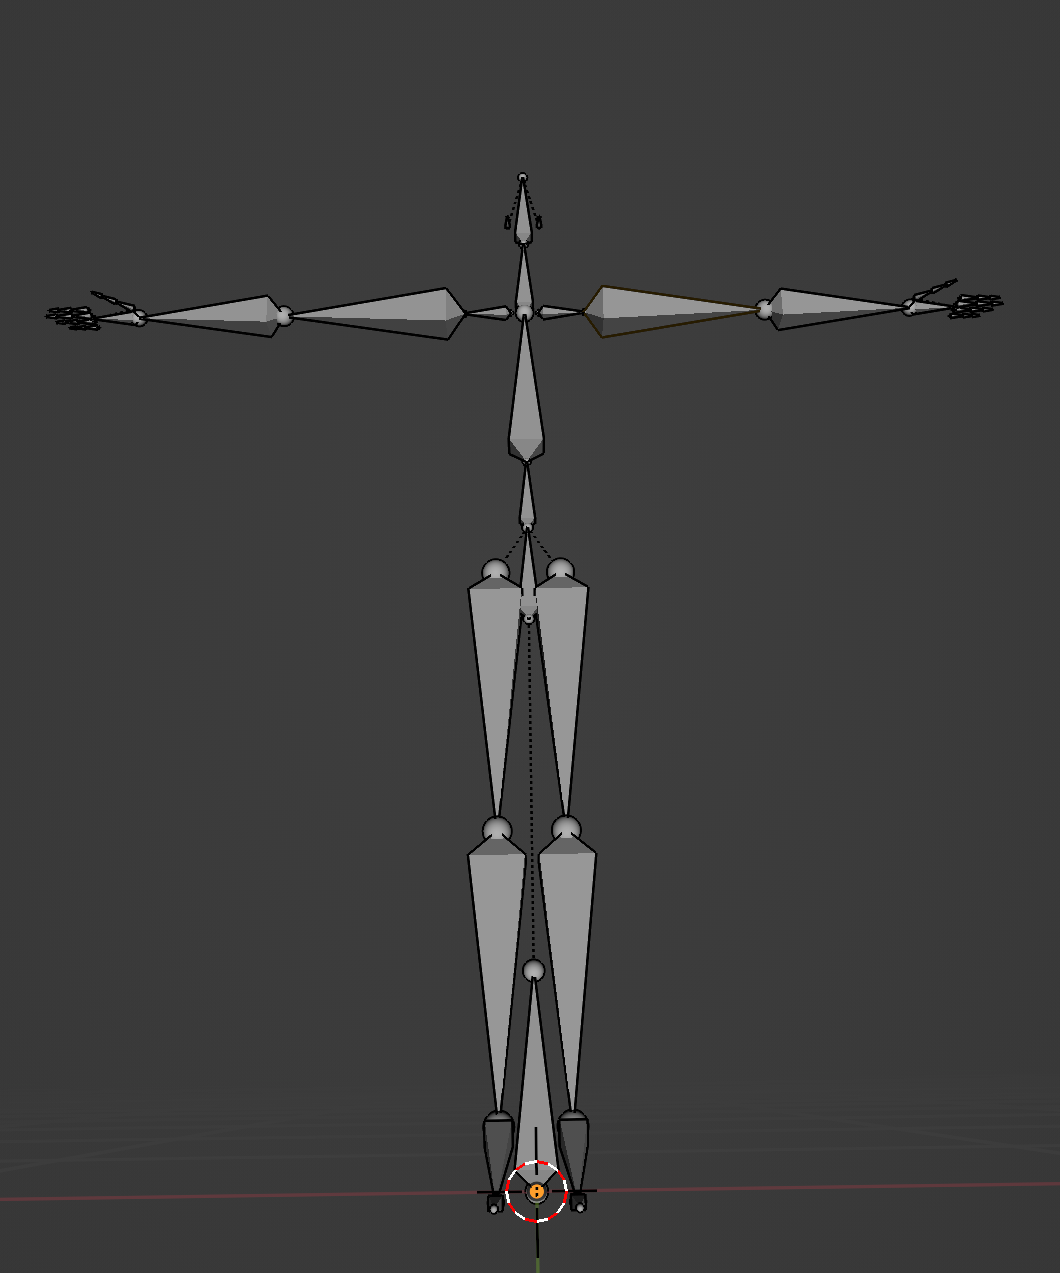
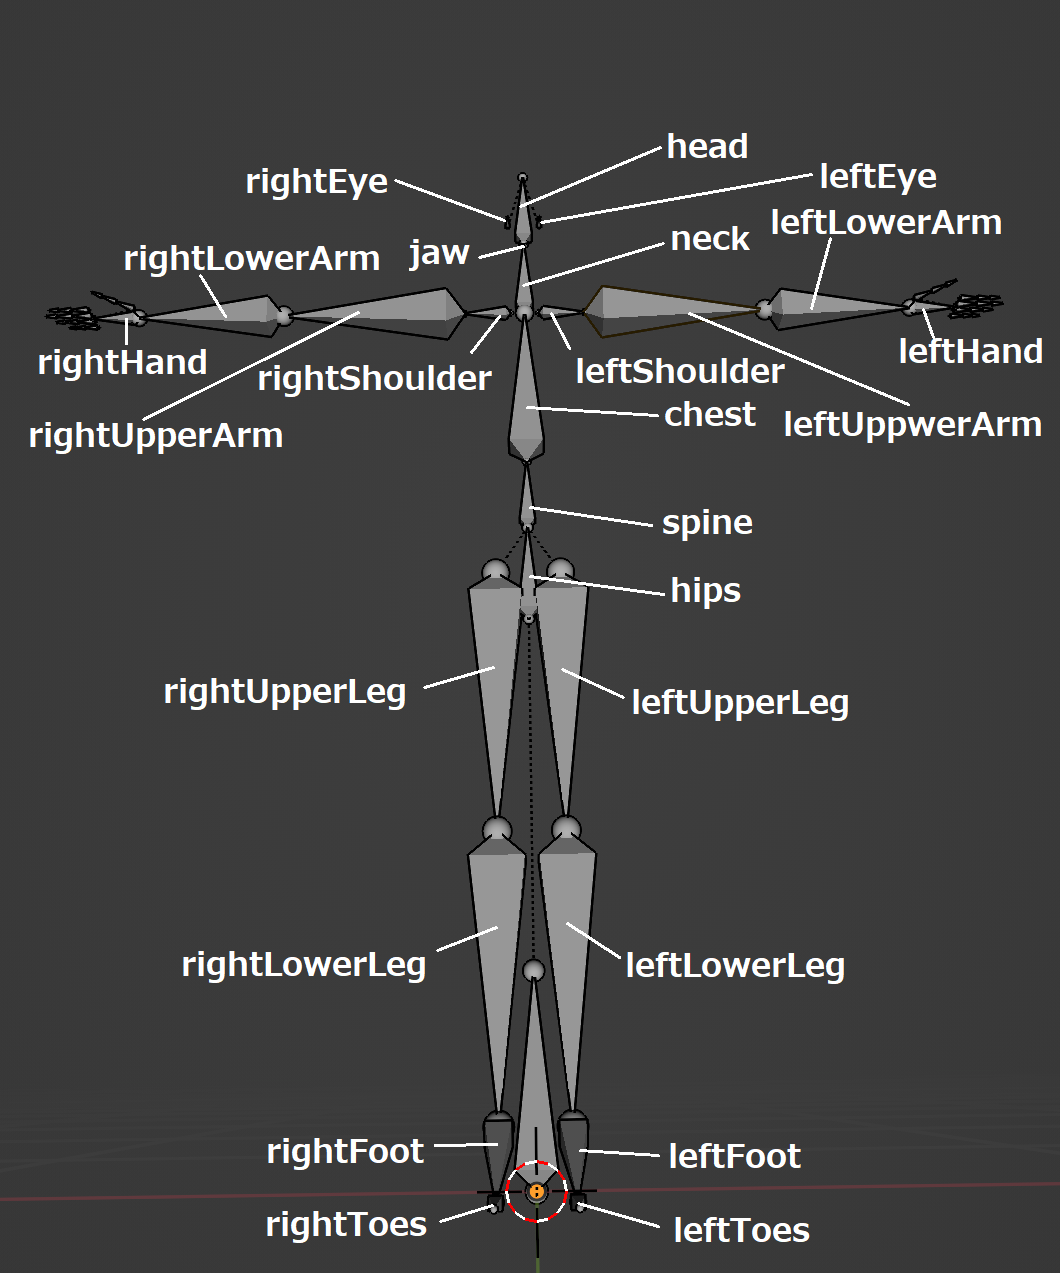
Add bone names to the images

diff --git a/README.md b/README.md
@@ -186,11 +186,11 @@ Bone hierarchy
             └─ [left|right]Toes
 ```
 
+Example skeleton screenshot (Credit: [Blender](https://www.blender.org/) with [VRM addon](https://vrm-addon-for-blender.info/))
+
 <img src="./images/body.png" width="480" alt="body">
 
 <img src="./images/hand.png" width="480" alt="hand">
-
-TODO: Add bone names into the images.
 
 *Non-normative comment*
 
